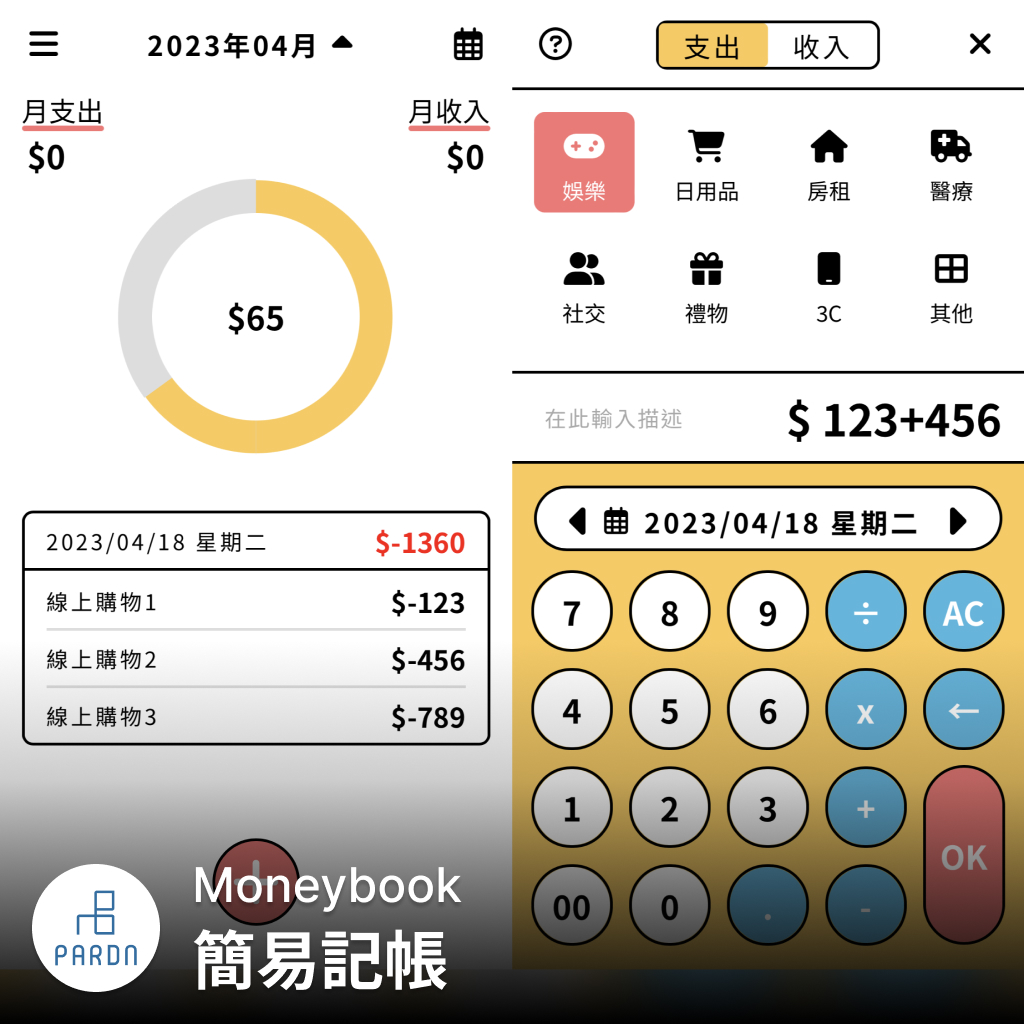
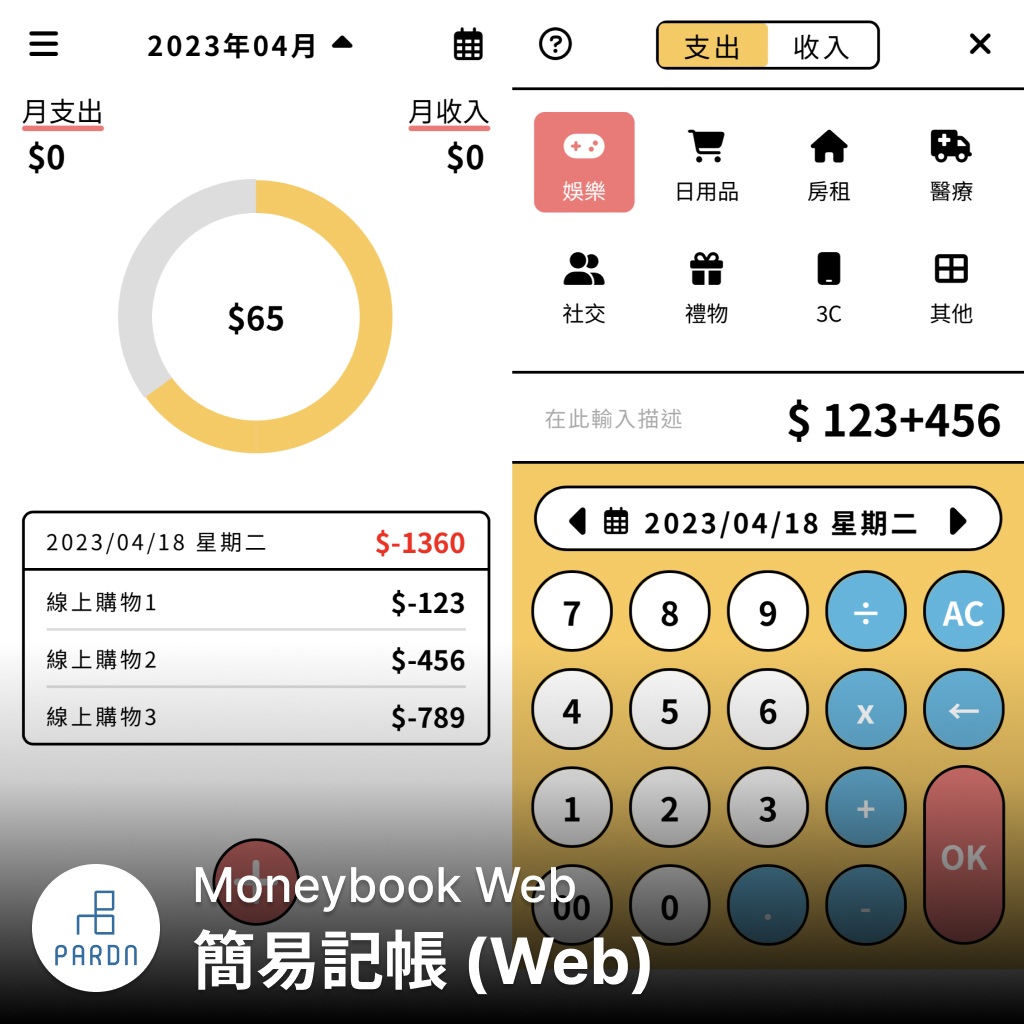
202305052308

Changed region(s): [[0.4375, 0.8438, 0.6562, 0.9688]]

diff --git a/README.md b/README.md
@@ -1,34 +1,29 @@
-# Moneybook 簡易記帳
-
-- [Github.io 預覽](https://pardnchiu.github.io/moneybook-web/)
-- [Github.com 源碼](https://github.com/pardnchiu/moneybook-web)
-- [MIT License](https://github.com/pardnchiu/moneybook-web/blob/main/LICENSE)
-- Html, Css/Sass, Javascript
-- [Font Awesome 6](https://fontawesome.com/v6/search)
+![](./image//2-1.jpg)
 
 ***
 
-### Pardn Chiu 邱敬幃
-
-- [JOBALL](https://joball.tw/@pardnltd)
-- [Linkedin](https://www.linkedin.com/in/pardnchiu/)
-- [LINE@](http://lin.ee/Gtcb5kc)
+# Moneybook 簡易記帳 (Web)
+- Html, Css, Sass, Javascript, [Font Awesome 6](https://fontawesome.com/v6/search)
+- Pardn Chiu 邱敬幃
+- [https://joball.tw/@pardnltd](https://joball.tw/@pardnltd)
+- [https://www.linkedin.com/in/pardnchiu/](https://www.linkedin.com/in/pardnchiu/)
+- [http://lin.ee/Gtcb5kc](http://lin.ee/Gtcb5kc)
 
 ***
 
 
-| 預覽1 | 預覽2 |
+| 預覽 | 預覽 |
 |---|---|
-| ![Moneybook 簡易記帳](./image/index-pie.jpg) | ![Moneybook 簡易記帳](./image/index-calendar.jpg) |
+| ![Moneybook 簡易記帳 (Web)](./image/index-pie.jpg) | ![Moneybook 簡易記帳 (Web)](./image/index-calendar.jpg) |
 
 
-| 預覽3 | 預覽4 |
+| 預覽 | 預覽 |
 |---|---|
-| ![Moneybook 簡易記帳](./image/month-selector.jpg) | ![Moneybook 簡易記帳](./image/add-expand.jpg) |
+| ![Moneybook 簡易記帳 (Web)](./image/month-selector.jpg) | ![Moneybook 簡易記帳 (Web)](./image/add-expand.jpg) |
 
-| 預覽5 | 預覽6 |
+| 預覽 | 預覽 |
 |---|---|
-| ![Moneybook 簡易記帳](./image/add-income.jpg) | ![Moneybook 簡易記帳](./image/tab-show.jpg) |
+| ![Moneybook 簡易記帳 (Web)](./image/add-income.jpg) | ![Moneybook 簡易記帳 (Web)](./image/tab-show.jpg) |
 
 
 ***
